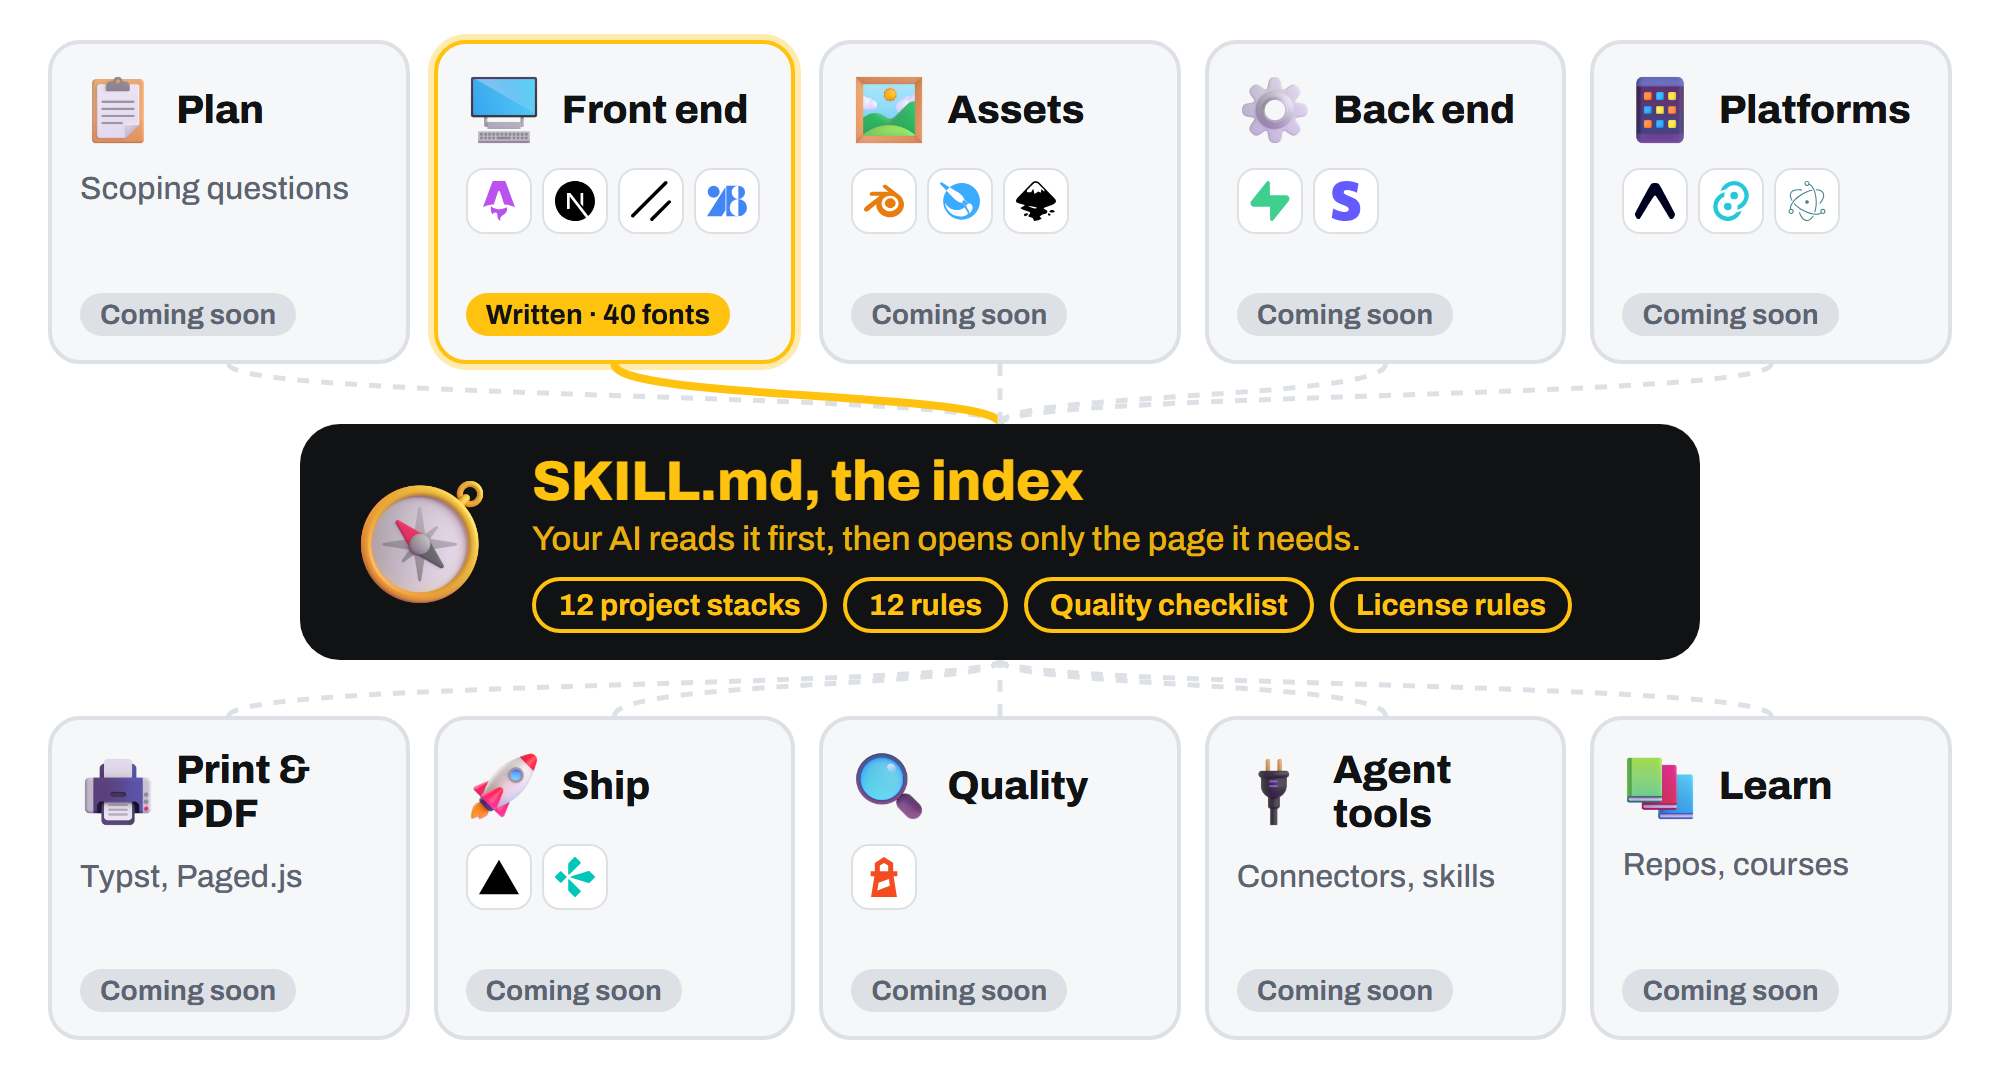
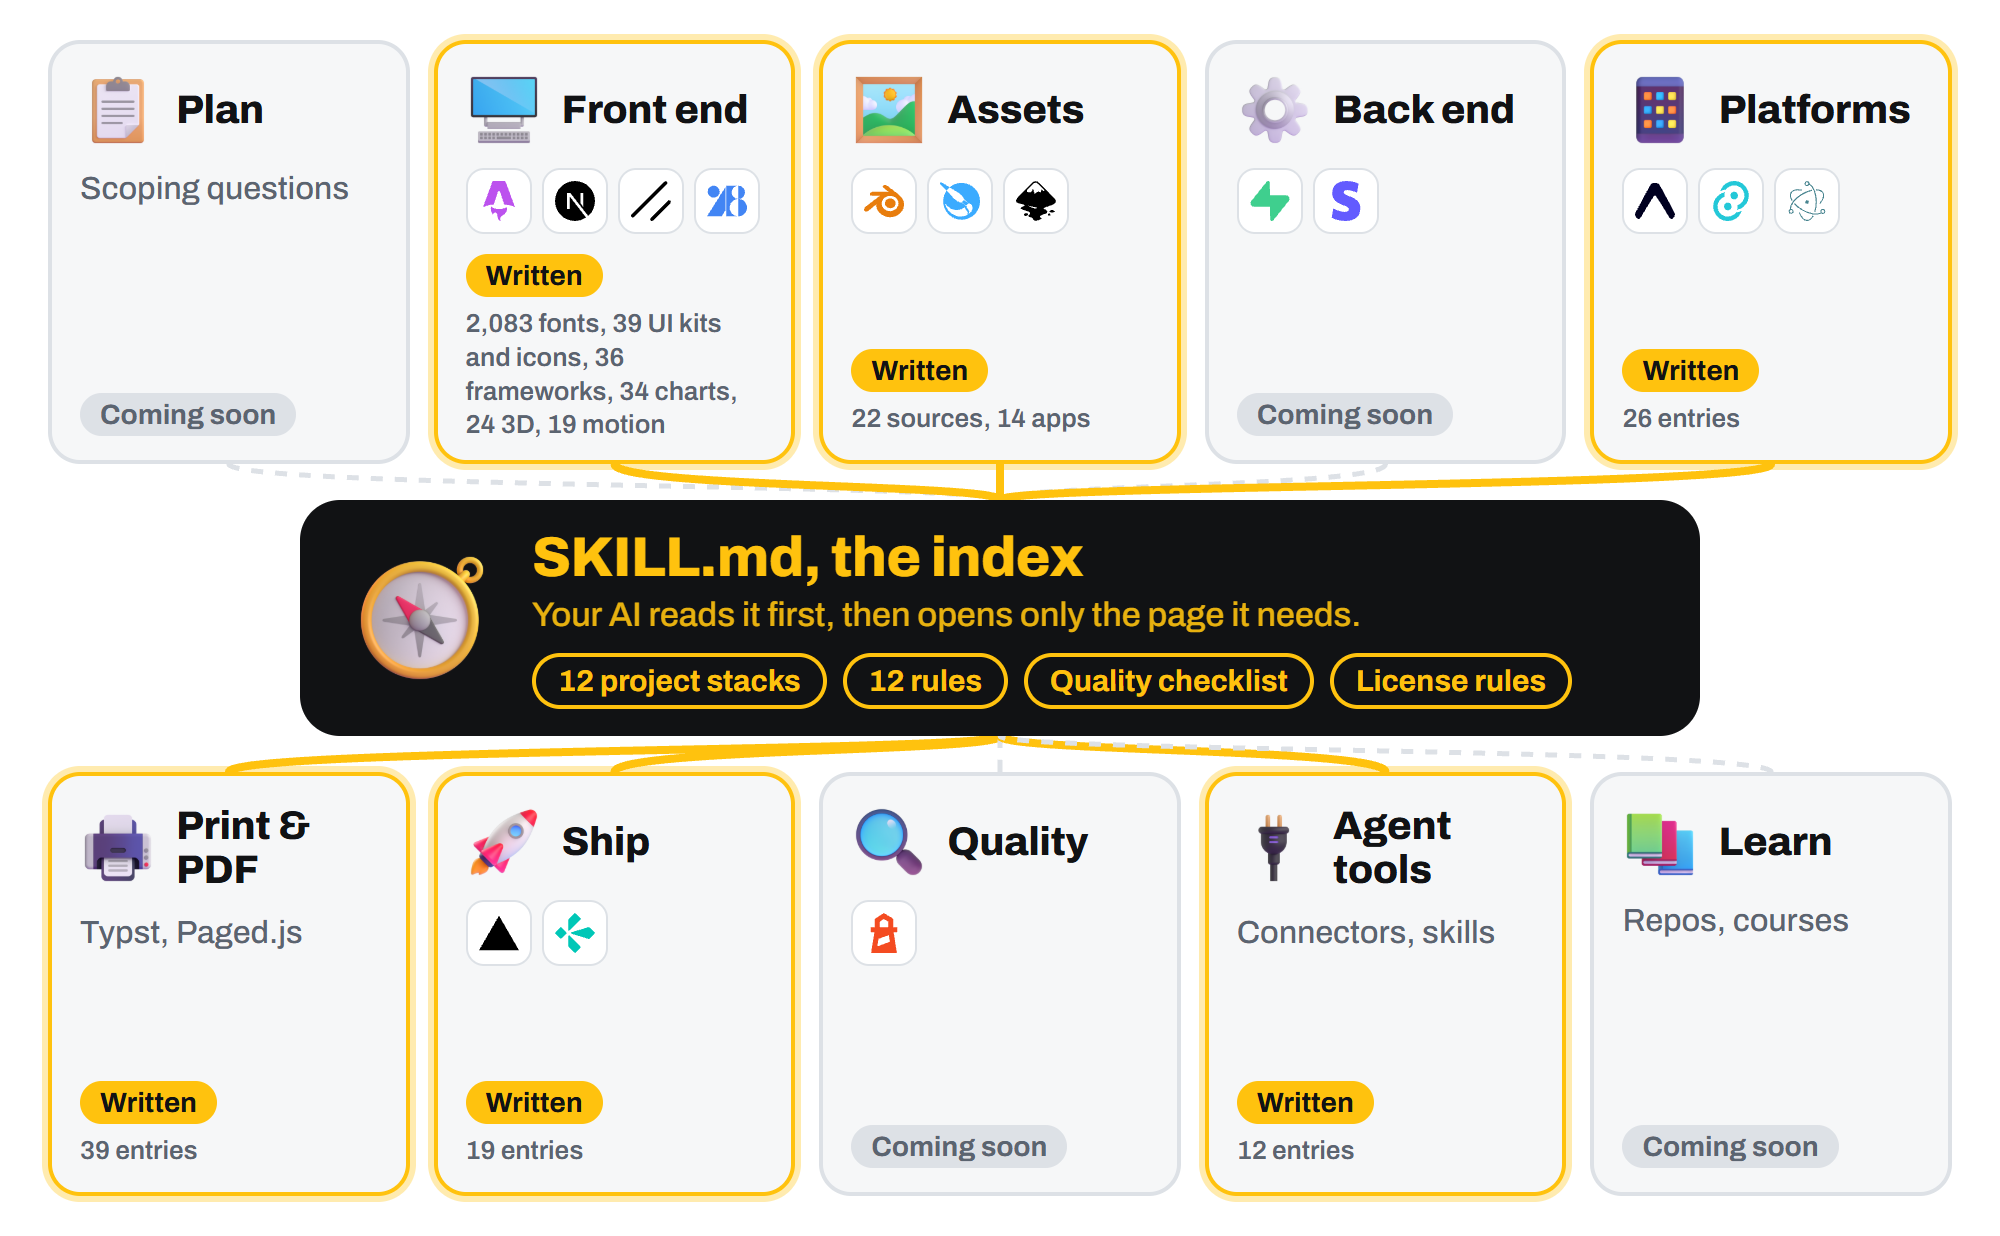
Hero: HTML source, updated written counts

Changed region(s): [[0.0, 0.0, 0.992, 0.9778]]

diff --git a/.github/assets/src/hero.html b/.github/assets/src/hero.html
@@ -1,0 +1,81 @@
+<!doctype html>
+<html lang="en">
+<head>
+<meta charset="utf-8">
+<title>toolkit hero</title>
+<!--
+  Source for hero-light.png and hero-dark.png (2000x1236: a 1000x618 page at 2x).
+  Light is the default; add #dark to the URL for the dark version.
+  Re-render from this folder with headless Chrome at 2x:
+    chrome --headless=new --force-device-scale-factor=2 --window-size=1000,618 --virtual-time-budget=5000 --screenshot=../hero-light.png "file:///<abs path>/hero.html"
+    chrome --headless=new --force-device-scale-factor=2 --window-size=1000,618 --virtual-time-budget=5000 --screenshot=../hero-dark.png "file:///<abs path>/hero.html#dark"
+  Category icons are Fluent Emoji 3D (MIT) and brand logos are Simple Icons (CC0), both from docs/.
+-->
+<link rel="stylesheet" href="https://fonts.googleapis.com/css2?family=Archivo:wght@500;600;700;800&display=block">
+<style>
+  :root { --bg:#ffffff; --ink:#111214; --card:#f6f7f8; --line:#dde1e6; --mut:#5b6470; --hub:#111214; --hub-ink:#FFC20E; }
+  :root.dark { --bg:#0d1117; --ink:#e9edf2; --card:#161b22; --line:#30363d; --mut:#9aa4b0; --hub:#FFC20E; --hub-ink:#111214; }
+  * { box-sizing:border-box; margin:0; }
+  html, body { width:1000px; height:618px; overflow:hidden; background:var(--bg); color:var(--ink); font-family:Archivo, sans-serif; }
+  .g { position:absolute; left:24px; right:24px; display:grid; grid-template-columns:repeat(5,1fr); gap:12px; }
+  .r1 { top:20px; } .r2 { top:386px; }
+  .t { height:212px; border-radius:16px; background:var(--card); border:2px solid var(--line); padding:14px 14px 12px; display:flex; flex-direction:column; gap:10px; }
+  .t.on { border-color:#FFC20E; box-shadow:0 0 0 3px #FFC20E55; }
+  .h { display:flex; align-items:center; gap:10px; }
+  .h img { width:38px; height:38px; }
+  .h span { font-size:20px; font-weight:800; letter-spacing:-.01em; line-height:1.1; }
+  .lg { display:flex; gap:5px; flex-wrap:nowrap; }
+  .lg span { width:33px; height:33px; border-radius:9px; background:#fff; border:1px solid #dde1e6; display:grid; place-items:center; }
+  .lg img { width:20px; height:20px; }
+  .tx { font-size:16px; color:var(--mut); font-weight:500; line-height:1.3; }
+  .st { margin-top:auto; display:flex; flex-direction:column; align-items:flex-start; gap:5px; }
+  .st b { font-size:14px; font-weight:700; padding:3px 10px; border-radius:999px; background:var(--line); color:var(--mut); }
+  .on .st b { background:#FFC20E; color:#111214; }
+  .st small { font-size:13px; font-weight:600; line-height:1.3; color:var(--mut); }
+  .hub { position:absolute; left:150px; right:150px; top:250px; height:118px; border-radius:20px; background:var(--hub); color:var(--hub-ink); display:flex; align-items:center; gap:20px; padding:0 26px; }
+  .hub img { width:70px; height:70px; }
+  .hub b { display:block; font-size:28px; font-weight:800; letter-spacing:-.01em; }
+  .hub p { font-size:17px; font-weight:500; margin-top:4px; opacity:.9; }
+  .chips { display:flex; gap:8px; margin-top:10px; flex-wrap:wrap; }
+  .chips span { font-size:15px; font-weight:700; padding:4px 11px; border-radius:999px; border:2px solid var(--hub-ink); }
+  svg { position:absolute; inset:0; }
+  svg path { stroke:var(--line); stroke-width:2.5; fill:none; stroke-dasharray:6 6; }
+  svg path.on { stroke:#FFC20E; stroke-width:4; stroke-dasharray:none; }
+</style>
+</head>
+<body>
+<svg id="lines" width="1000" height="618"></svg>
+<div class="g r1" id="r1"></div>
+<div class="hub"><img src="../../../docs/icons/compass.png" alt=""><div><b>SKILL.md, the index</b><p>Your AI reads it first, then opens only the page it needs.</p>
+<div class="chips"><span>12 project stacks</span><span>12 rules</span><span>Quality checklist</span><span>License rules</span></div></div></div>
+<div class="g r2" id="r2"></div>
+<script>
+  if (location.hash === '#dark') document.documentElement.classList.add('dark');
+  // [name, icon, logos, text, written count line (null = coming soon)]
+  const CATS = [
+    ['Plan', 'clipboard', [], 'Scoping questions', null],
+    ['Front end', 'desktop-computer', ['astro', 'nextdotjs', 'shadcnui', 'googlefonts'], '', '2,083 fonts, 39 UI kits and icons, 36 frameworks, 34 charts, 24 3D, 19 motion'],
+    ['Assets', 'framed-picture', ['blender', 'krita', 'inkscape'], '', '22 sources, 14 apps'],
+    ['Back end', 'gear', ['supabase', 'stripe'], '', null],
+    ['Platforms', 'mobile-phone', ['expo', 'tauri', 'electron'], '', '26 entries'],
+    ['Print & PDF', 'printer', [], 'Typst, Paged.js', '39 entries'],
+    ['Ship', 'rocket', ['vercel', 'netlify'], '', '19 entries'],
+    ['Quality', 'magnifying-glass-tilted-left', ['lighthouse'], '', null],
+    ['Agent tools', 'electric-plug', [], 'Connectors, skills', '12 entries'],
+    ['Learn', 'books', [], 'Repos, courses', null],
+  ];
+  const tile = ([name, icon, logos, txt, count]) => `
+    <div class="t${count ? ' on' : ''}">
+      <div class="h"><img src="../../../docs/icons/${icon}.png" alt=""><span>${name}</span></div>
+      ${logos.length ? `<div class="lg">${logos.map(l => `<span><img src="../../../docs/logos/${l}.svg" alt=""></span>`).join('')}</div>` : `<div class="tx">${txt}</div>`}
+      <div class="st">${count ? `<b>Written</b><small>${count}</small>` : '<b>Coming soon</b>'}</div>
+    </div>`;
+  document.getElementById('r1').innerHTML = CATS.slice(0, 5).map(tile).join('');
+  document.getElementById('r2').innerHTML = CATS.slice(5).map(tile).join('');
+  const w = (952 - 48) / 5, x = i => 24 + w * i + w / 2 + 12 * i;
+  document.getElementById('lines').innerHTML =
+    CATS.slice(0, 5).map((c, i) => `<path class="${c[4] ? 'on' : ''}" d="M${x(i)},232 C${x(i)},244 500,242 500,250"/>`).join('') +
+    CATS.slice(5).map((c, i) => `<path class="${c[4] ? 'on' : ''}" d="M${x(i)},386 C${x(i)},374 500,376 500,368"/>`).join('');
+</script>
+</body>
+</html>

diff --git a/README.md b/README.md
@@ -25,7 +25,7 @@
 <p align="center">
   <picture>
     <source media="(prefers-color-scheme: dark)" srcset=".github/assets/hero-dark.png">
-    <img src=".github/assets/hero-light.png" width="838" alt="What's in the toolkit. In the middle, SKILL.md, the index: your AI reads it first, then opens only the page it needs; it holds 12 project stacks, 12 rules, a quality checklist and license rules. Around it, ten categories: Plan; Front end with Astro, Next.js, shadcn/ui and Google Fonts logos, marked Written, 40 fonts; Assets with Blender, Krita and Inkscape; Back end with Supabase and Stripe; Platforms with Expo, Tauri and Electron; Print and PDF; Ship with Vercel and Netlify; Quality with Lighthouse; Agent tools; Learn. All but Front end are marked Coming soon.">
+    <img src=".github/assets/hero-light.png" width="838" alt="What's in the toolkit. In the middle, SKILL.md, the index: your AI reads it first, then opens only the page it needs; it holds 12 project stacks, 12 rules, a quality checklist and license rules. Around it, ten categories. Written: Front end (2,083 fonts, 39 UI kits and icons, 36 frameworks, 34 charts, 24 3D, 19 motion), with Astro, Next.js, shadcn/ui and Google Fonts logos; Assets (22 sources, 14 apps), with Blender, Krita and Inkscape; Platforms (26 entries), with Expo, Tauri and Electron; Print and PDF (39 entries); Ship (19 entries), with Vercel and Netlify; Agent tools (12 entries). Coming soon: Plan, Back end (Supabase and Stripe), Quality (Lighthouse) and Learn.">
   </picture>
 </p>
 
